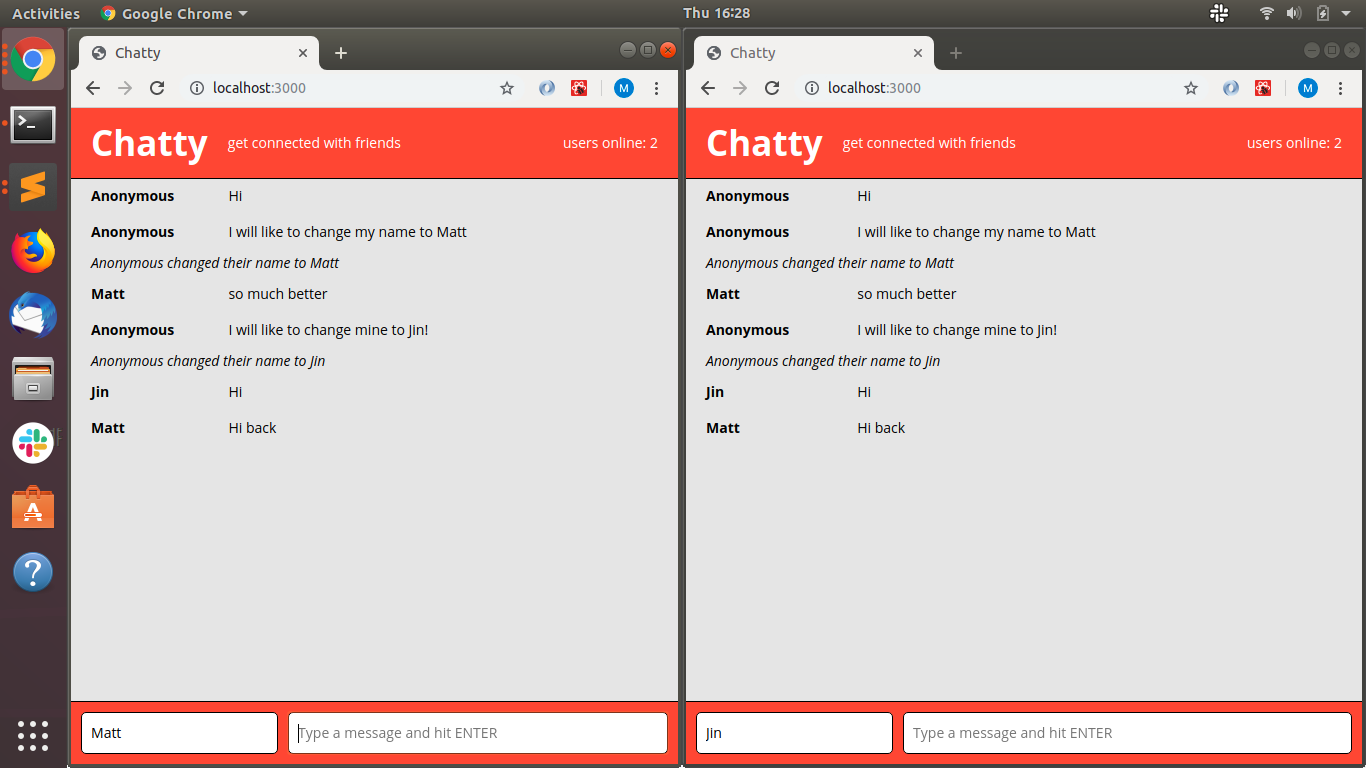
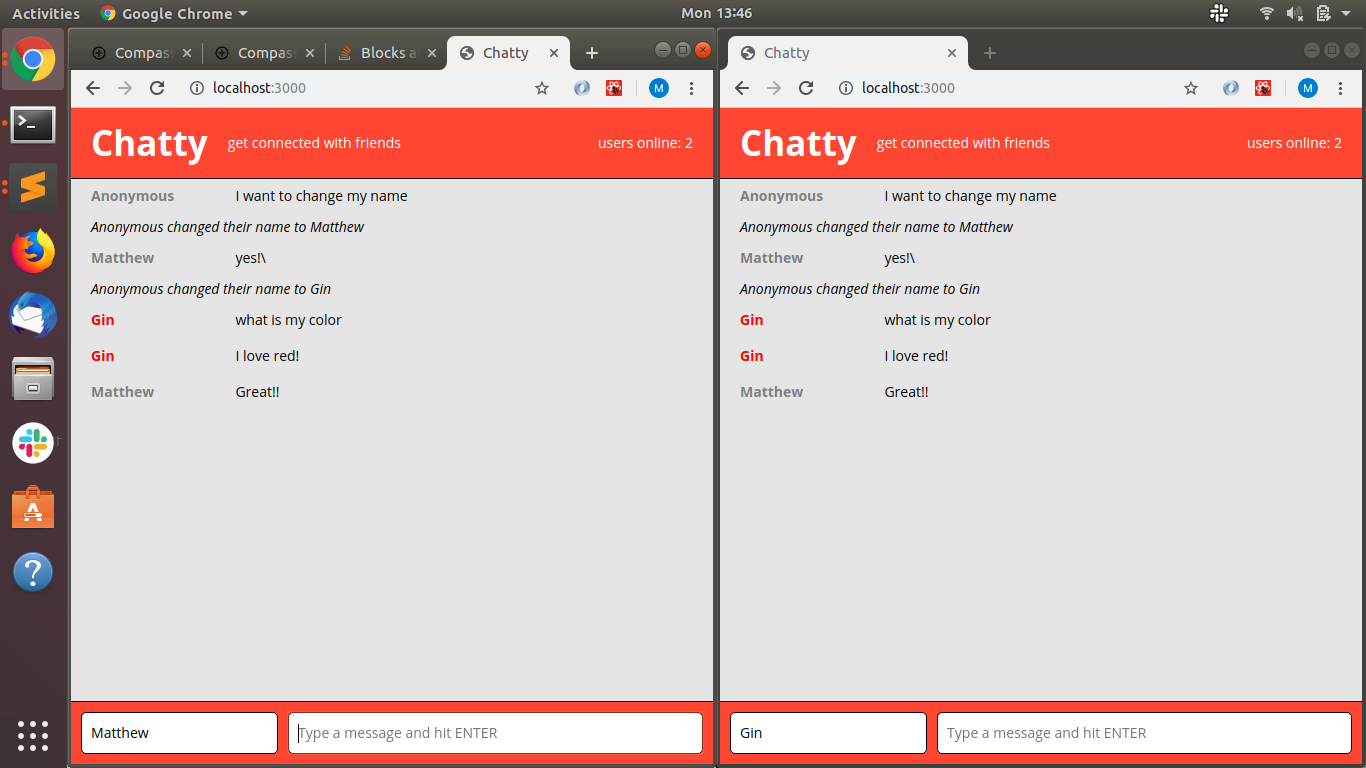
user color change

diff --git a/chatty_server/server.js b/chatty_server/server.js
@@ -15,12 +15,13 @@ const server = express()
 const wss = new SocketServer({ server });
 
 
+const color = ['red', 'blue', 'orange', 'black', 'yellow', 'grey'];
+
 wss.on('connection', (ws) => {
   console.log('Client connected');
   console.log(wss.clients.size)
 
-  const color = ['red', 'blue', 'orange', 'black', 'yellow', 'grey'];
-  const ranColor = color[Math.floor(Math.random()*4)];
+  const ranColor = color[Math.floor(Math.random()*6)];
   const message = { color: ranColor }
   ws.send(JSON.stringify(message))
   //when new user connects, send the number of client to front end

diff --git a/chatty_client/src/App.jsx b/chatty_client/src/App.jsx
@@ -27,7 +27,7 @@ class App extends Component {
       console.log("frontend: ",message)
       let obj = JSON.parse(message.data);
       console.log('obj',obj)
-      if (obj.color){
+      if (obj.color && !obj.username){
         this.setState({color: obj.color})
       }
       if (typeof(obj.numberOfUsers)==="number"){
